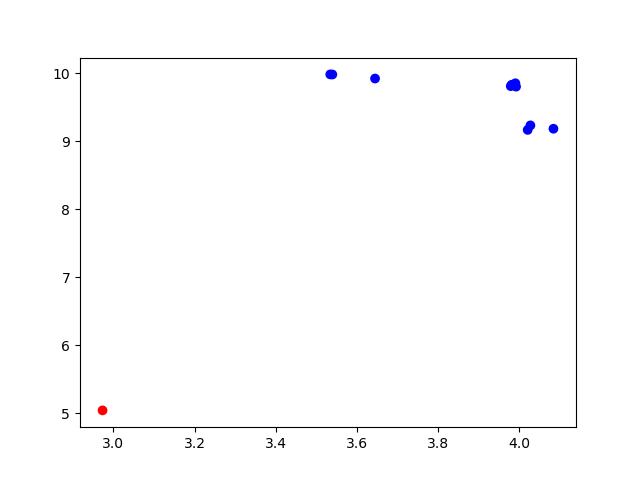
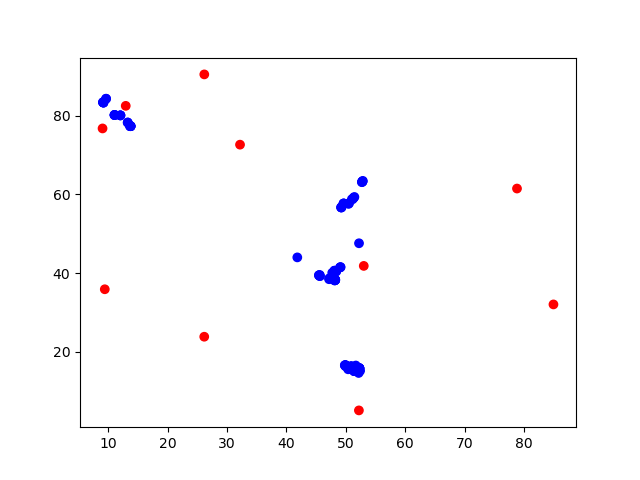
cleaned up human alerting

diff --git a/entity_class.py b/entity_class.py
@@ -137,7 +137,7 @@ class entity:
         self.idx_all_ents = idx_all_ents
         self.velocity = velocity
         self.alerted = alerted
-        self.pos_alerter = pos_alerter 
+        self.pos_alerter = pos_alerter
         self.pq = prio_q()
         self.preferred_dir = None
         
@@ -551,7 +551,9 @@ class entity:
             "Zombie and Human are at the EXACT same spot! Check function for more Information")
  
         run_direction = -(self.pos_alerter - self.pos)/distance # unit vector of direction
-        self.change_velocity(run_direction*self.max_speed_H)
+        print("zombie awareness walk!")
+        print(self.param_dict["max_speed_H"])
+        self.change_velocity(run_direction*self.param_dict["max_speed_H"])
 
 
     def flocking_behavior(self, entity_list, n_humans = 4, min_distance = 1, factors = (0.3,0.2,0.2)):
@@ -637,10 +639,9 @@ class entity:
                 nearest_zombie = entity_list[idx]
                 break
         if  nearest_zombie != 0:
-            
             awareness_r = self.param_dict["awareness_r_H"]
         
-            #get position of this nearest zombi 
+            #get position of this nearest zombie
             position_nearest_zombie = nearest_zombie.pos
         
             #get the distance
@@ -648,11 +649,11 @@ class entity:
         
             #compare distance to really small float, so we never to a div by zero 
             #in the line after
-            safe_distance = max(distance_zombie_to_human, math.nextafter(0, 1.0))
+            distance = max(distance_zombie_to_human, math.nextafter(0, 1.0))
         
-            if safe_distance <= awareness_r:
-
-                self.change_alerted(True)
+            if distance <= awareness_r:
+                print("zombie too close!")
+                self.change_alerted(new_alerted=True)
             
                 #update position of alerter
                 self.change_pos_alerter(position_nearest_zombie) 
@@ -661,7 +662,7 @@ class entity:
                 human_to_zombie_vector = position_nearest_zombie - self.pos
             
                 #get the new unit vector whichs points the zombi to the human
-                new_human_direction = - human_to_zombie_vector / safe_distance
+                new_human_direction = - human_to_zombie_vector / distance
             else: self.change_alerted(False)
                 
         #-----raphi provisorisch done -------------------------------

diff --git a/run.py b/run.py
@@ -5,11 +5,11 @@ import numpy as np
 from step_update import *
 from anim_func import *
 
-xbounds = (0.0,10.0)
-ybounds = (0.,10.)
+xbounds = (0.0,100.0)
+ybounds = (0.,100.)
 
-param_dict = create_parameter_dict(n_H=10, n_Z=1,timestep=.08, n_steps=100, bite_r_Z_H = 0.002, 
-                                   x_bounds=np.array(xbounds), y_bounds=np.array(ybounds))
+param_dict = create_parameter_dict(n_H=100, n_Z=10,timestep=.08, n_steps=100, bite_r_Z_H = 0.002, 
+                                   x_bounds=np.array(xbounds), y_bounds=np.array(ybounds), awareness_r_H=1., max_speed_H=28.0)
 
 entities = Initialize_entities(param_dict)
 
